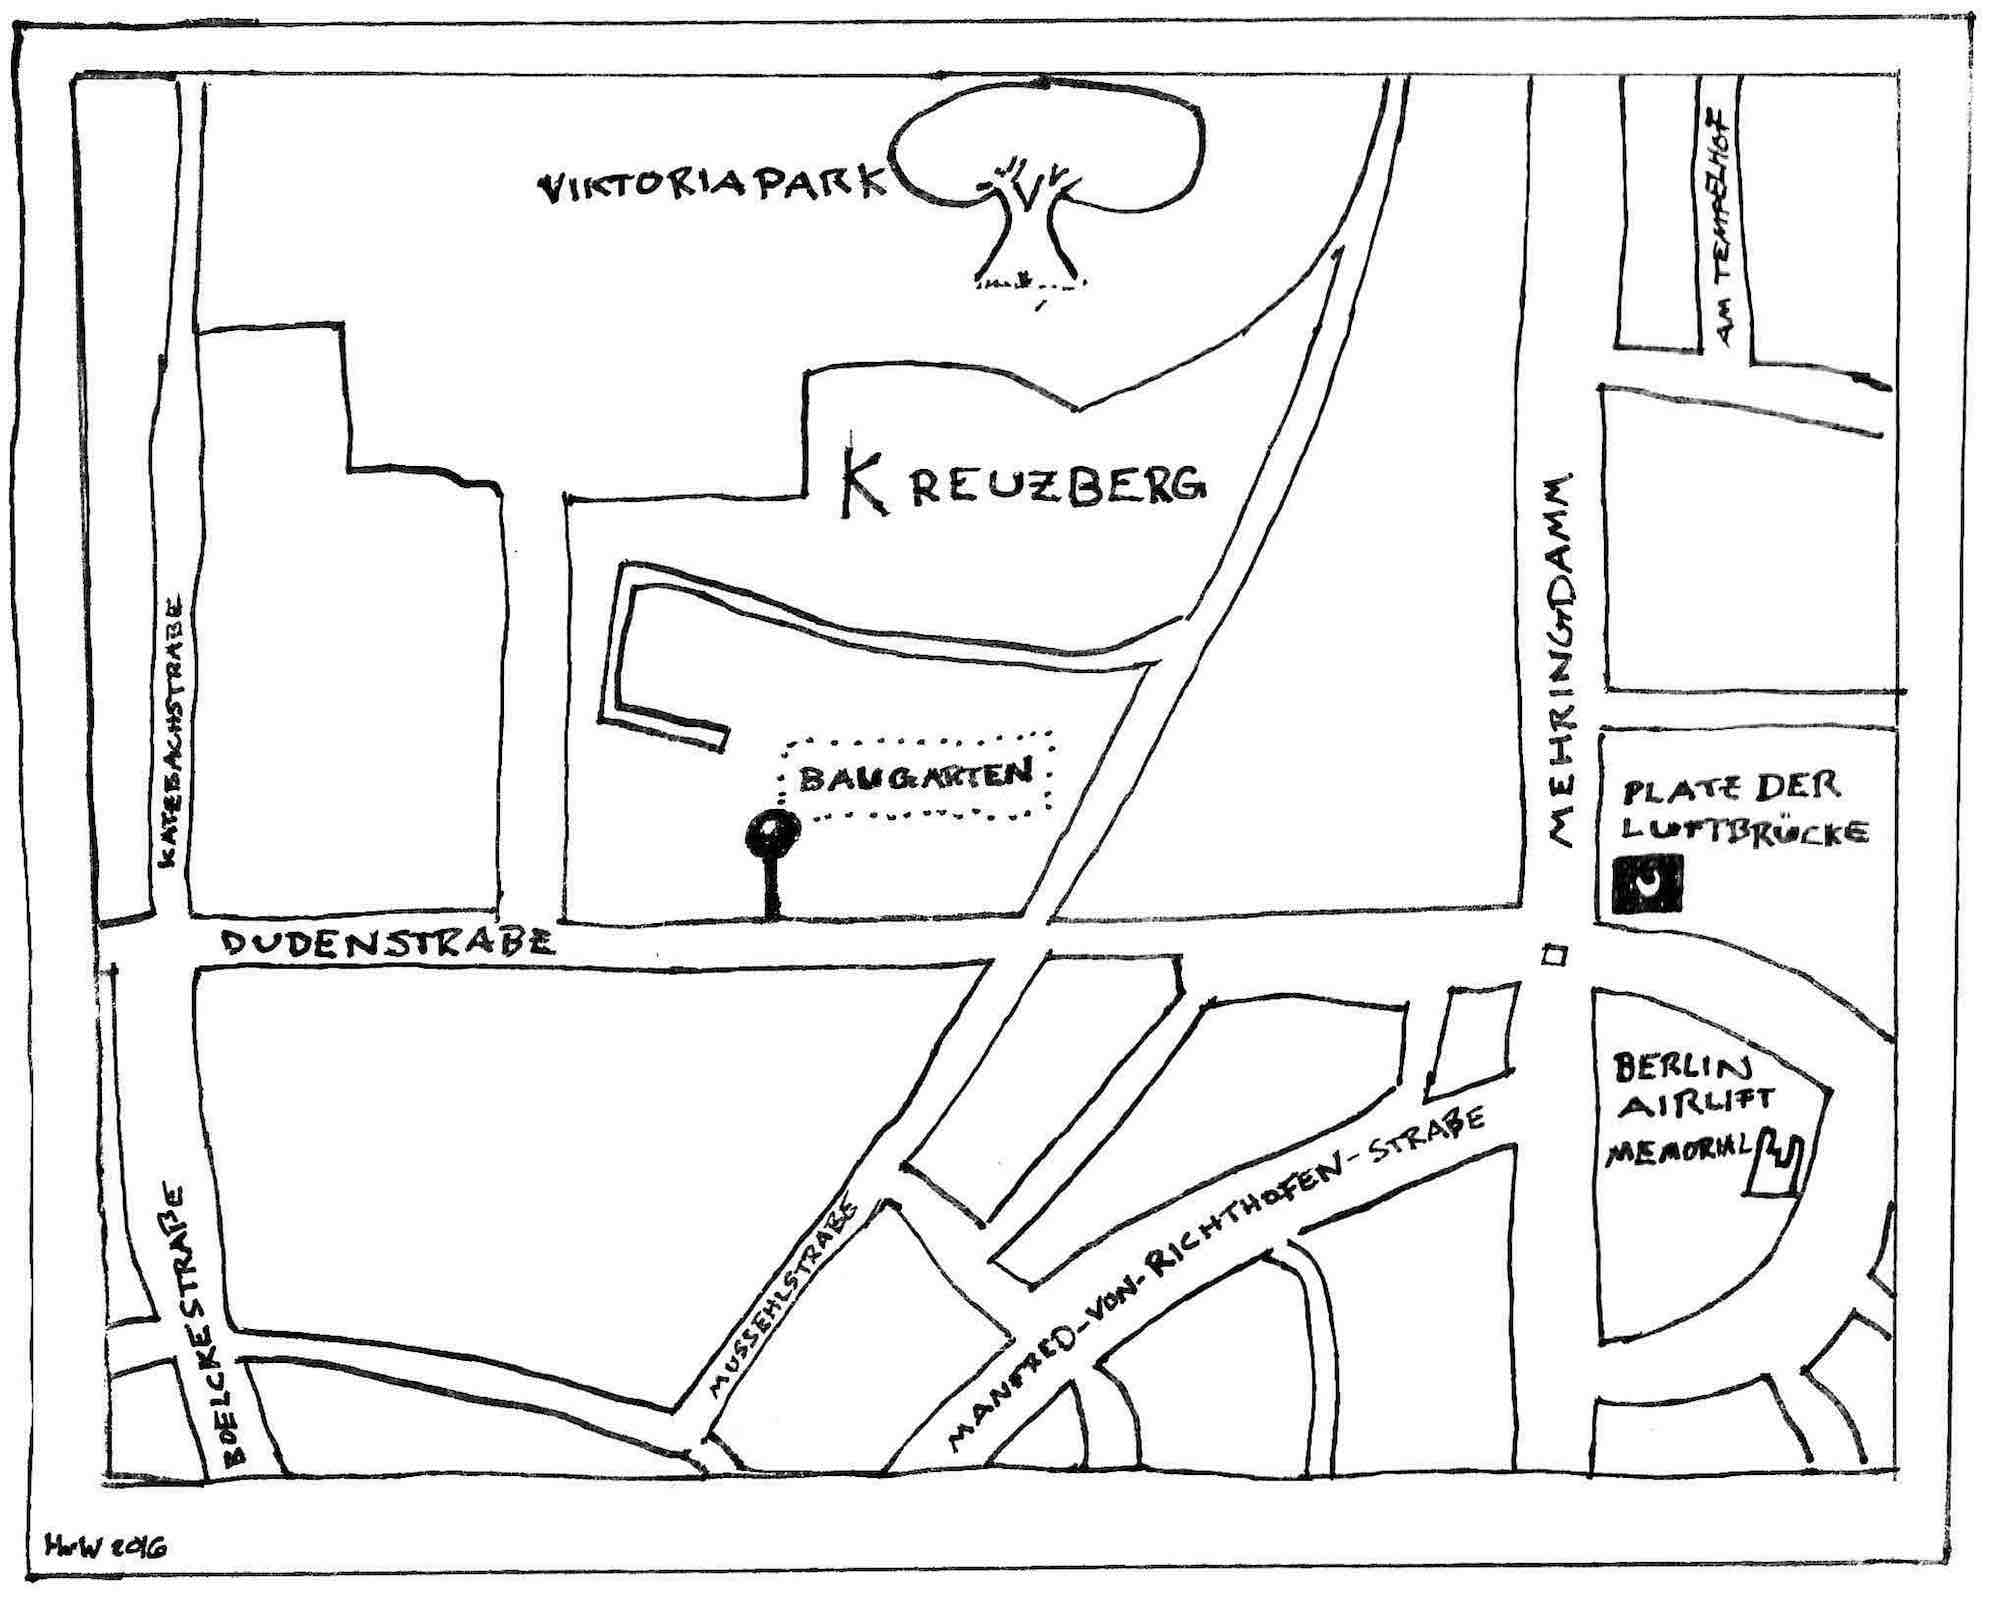
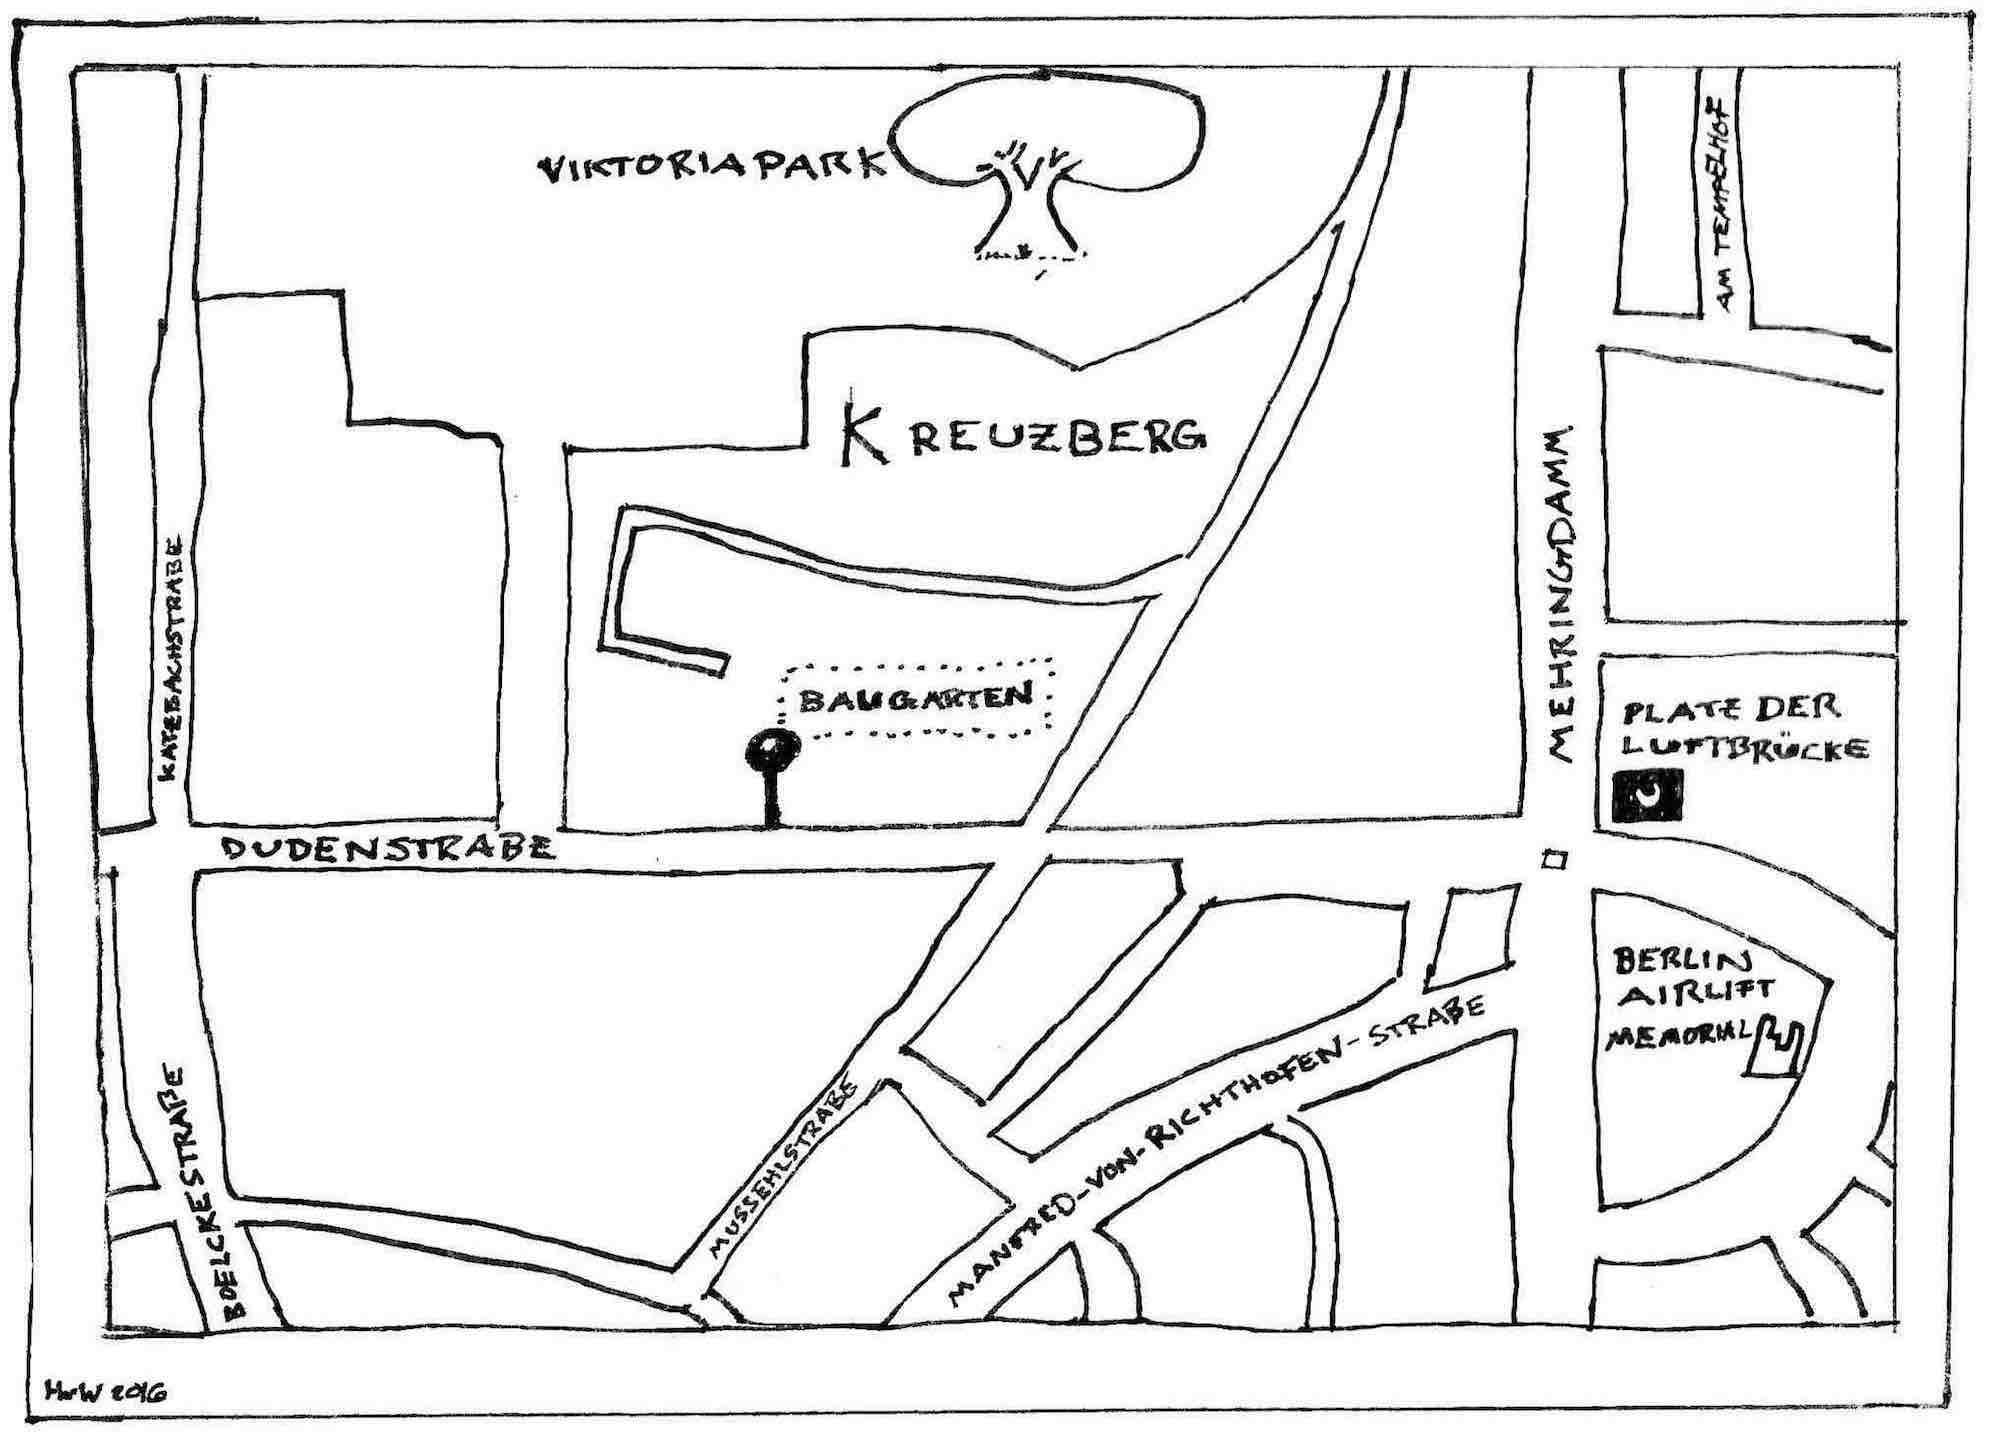
changed mobile styling to include iPAD size... seemed like best and easiest solution. Also fixed footer issue, where it didn't appear in the 2nd fold, by decreasing the height of the kreuzberg map (in the image itself)

diff --git a/public/css/baugarten_custom.css b/public/css/baugarten_custom.css
@@ -15,7 +15,7 @@ body {
   min-height: 100vh;
 }
 
-@media (max-width: 550px) {
+@media (max-width: 768px) {
   #hero{
     background-attachment: fixed;
     background-image: url('../images/humboldt_background_mobile.jpg');
@@ -43,7 +43,7 @@ body {
   background-color: rgb(225,66,44);
 }
 
-@media (max-width: 550px) {
+@media (max-width: 768px) {
   #hero-title h1 {
     text-align: center;
     font-size: 4.5rem;
@@ -87,7 +87,7 @@ body {
   line-height: 58px;
 }
 
-@media (max-width: 550px) {
+@media (max-width: 768px) {
   #button-contact-baugarten a {
     font-size: 24px;
     height: 68px;
@@ -111,7 +111,7 @@ body {
   display: none;
 }
 
-@media (max-width: 550px) {
+@media (max-width: 580px) {
   #mobile-button-baugarten-people {
     display: inline-block;
   }
@@ -152,15 +152,11 @@ body {
   padding-bottom: 3%;
 }
 
-@media (max-width: 550px) {
+@media (max-width: 768px) {
   #baugarten-team {
+    padding-top: 5%;
     background-color: rgb(225,66,44);
-  }
-}
-
-@media (max-width: 769px) {
-  #baugarten-team {
-    margin-top: 375%;
+    padding-bottom: 25%;
   }
 }
 

diff --git a/index.html b/index.html
@@ -37,7 +37,7 @@
             </div>
             <div class="one-half column offset-by-six" style="margin-top: -0.75%">
               <h5 id="hero-h5">We build web + mobile apps</h5>
-              <h5 id="hero-h5">We nurture projects and people</h5>
+              <h5 id="hero-h5">We grow ideas and people</h5>
             </div>
           </div>
         </div>
@@ -57,7 +57,7 @@
         </div>
       </section>
       <section id="baugarten-team" class="u-full-width" style="margin-top: 15%">
-        <div id="baugarten-team" class="container">
+        <div class="container">
           <div class="row">
             <ul>
               <li class="two columns">
@@ -146,7 +146,7 @@
     <!-- End Document ------------------------ -->
   </body>
   <footer>
-  <h6>2016 - HvW - Made in Berlin</h6>
+    <h6>2016 - HvW - Made in Berlin</h6>
   </footer>
 </html>
 
